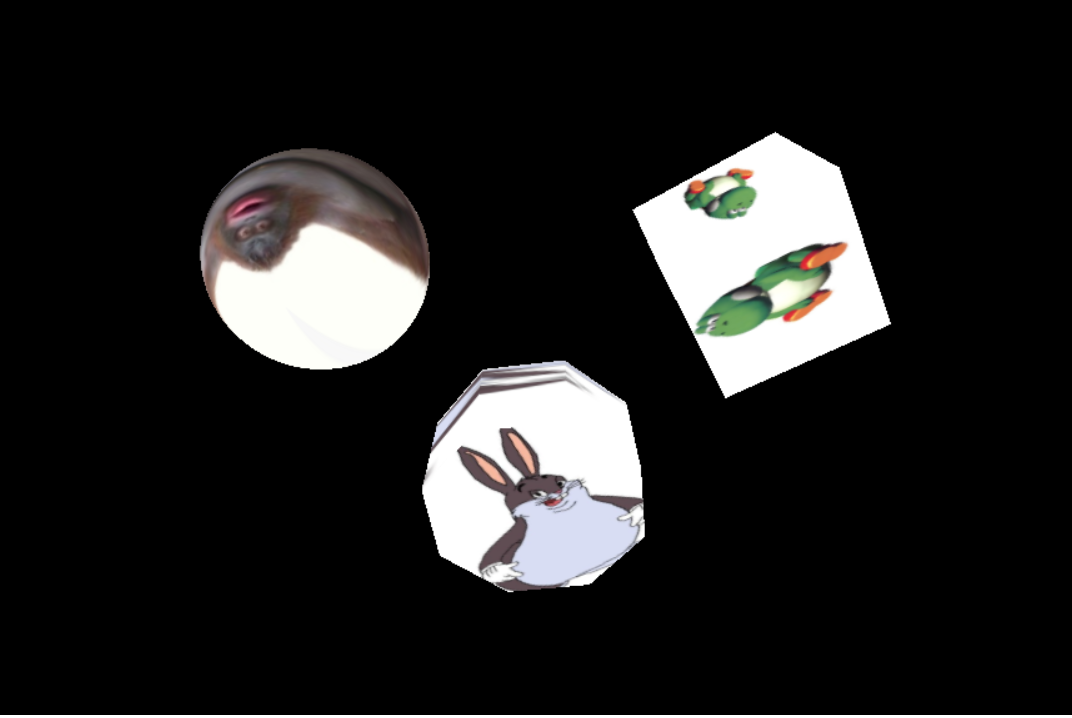
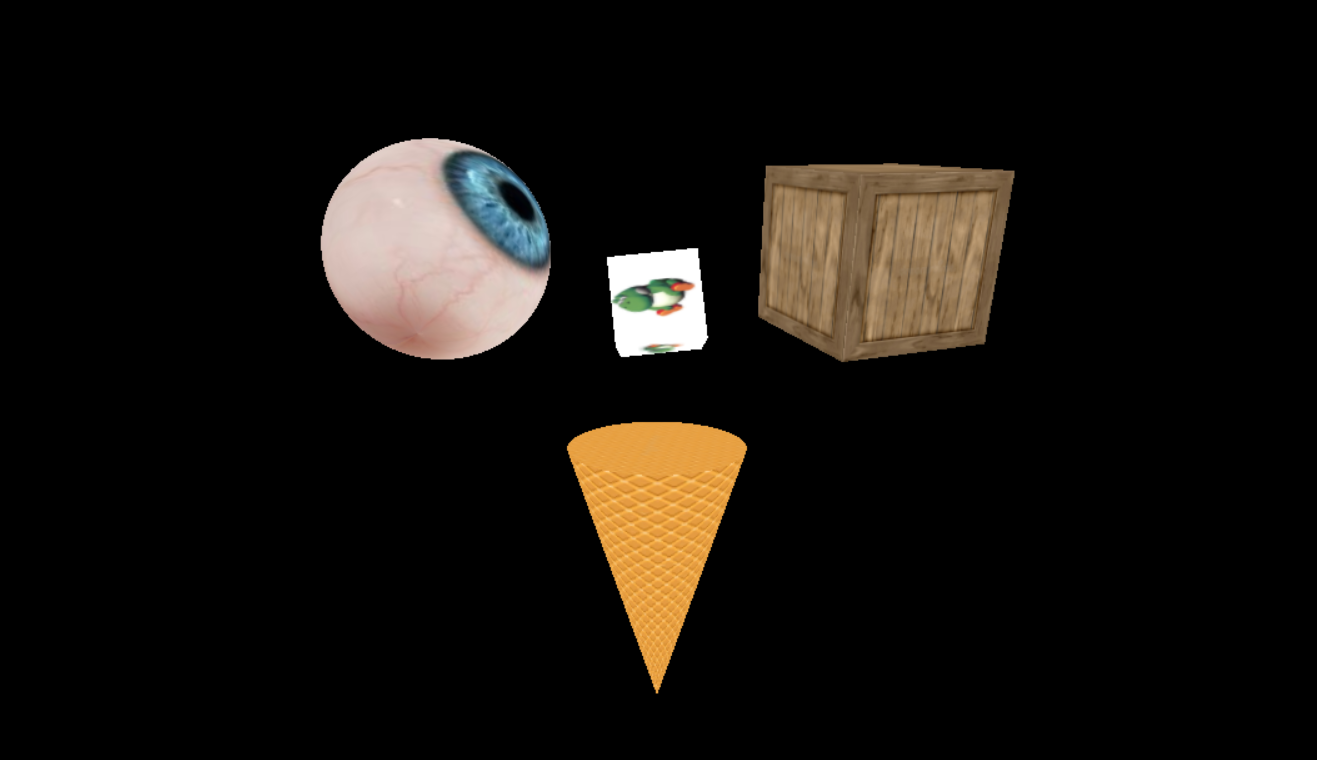
BIG YOSHI AND THE HOLY TRINITY

Changed region(s): [[0.3694, 0.1838, 0.8312, 0.9192], [0.1847, 0.1838, 0.431, 0.5209], [0.0, 0.9805, 1.0, 1.0]]

diff --git a/index.html b/index.html
@@ -2,7 +2,7 @@
 <html>
 	<head>
 		<meta charset="utf-8">
-		<title>CUBE</title>
+		<title> BIG YOSHI AND THE HOLY TRINITY </title>
 		<style>
 			body { margin: 0; }
 		</style>
@@ -18,45 +18,55 @@
 			renderer.setSize( window.innerWidth, window.innerHeight );
 			document.body.appendChild( renderer.domElement );
 
-            const textureYoshi = new THREE.TextureLoader().load('https://i.kym-cdn.com/entries/icons/facebook/000/025/999/Screen_Shot_2018-04-24_at_1.33.44_PM.jpg' );
-            const materialYoshi = new THREE.MeshBasicMaterial( { map: textureYoshi } );
+            const textureCrate = new THREE.TextureLoader().load('https://thumbs.dreamstime.com/b/wood-crate-generated-hires-texture-background-45525618.jpg' );
+            const materialCrate = new THREE.MeshBasicMaterial( { map: textureCrate } );
 
-            const textureMonke = new THREE.TextureLoader().load('https://i1.sndcdn.com/avatars-000704759671-vubbcx-t500x500.jpg' );
-            const materialMonke = new THREE.MeshBasicMaterial( { map: textureMonke } );
+            const textureEyeBall = new THREE.TextureLoader().load('https://staticdelivery.nexusmods.com/mods/264/images/thumbnails/97-0-1471472206.jpg' );
+            const materialEyeBall = new THREE.MeshBasicMaterial( { map: textureEyeBall } );
 
-            const textureChungus = new THREE.TextureLoader().load('https://pbs.twimg.com/profile_images/1189017442032467968/T4HUcDrr_400x400.jpg');
-            const materialChungus = new THREE.MeshBasicMaterial( { map: textureChungus } );
+            const textureIceCream = new THREE.TextureLoader().load('https://thumbs.dreamstime.com/b/seamless-pattern-texture-waffle-ice-cream-cone-cartoon-illustration-web-site-advertising-banner-seamless-pattern-116058546.jpg');
+            const materialIceCream = new THREE.MeshBasicMaterial( { map: textureIceCream } );
+
+            const textureBigYoshi = new THREE.TextureLoader().load('https://i.kym-cdn.com/entries/icons/facebook/000/025/999/Screen_Shot_2018-04-24_at_1.33.44_PM.jpg');
+            const materialBigYoshi = new THREE.MeshBasicMaterial( { map: textureBigYoshi } );
             
 			const cubegm = new THREE.BoxGeometry( 150, 150, 150 );
+            const smallcubegm = new THREE.BoxGeometry( 80, 80, 80 );
             const spheregm = new THREE.SphereGeometry( 100, 100, 100 );
-            const Cylindergm = new THREE.CylinderGeometry( 100, 100, 100 );
+            const Conegm = new THREE.ConeGeometry( 80, 250, 100 );
 
-			const cube = new THREE.Mesh( cubegm, materialYoshi );
-            const sphere = new THREE.Mesh( spheregm, materialMonke );
-            const Cylinder = new THREE.Mesh( Cylindergm, materialChungus );
+			const crate = new THREE.Mesh( cubegm, materialCrate );
+            const bigyoshi = new THREE.Mesh( smallcubegm, materialBigYoshi );
+            const sphere = new THREE.Mesh( spheregm, materialEyeBall );
+            const Cone = new THREE.Mesh( Conegm, materialIceCream );
 
-            cube.position.set( 200, 100, 0 );
+            crate.position.set( 200, 100, 0 );
+            bigyoshi.position.set( 0, 50, 0 );
             sphere.position.set( -200, 100, 0 );
-            Cylinder.position.set( 0, -100, 0)
+            Cone.position.set( 0, -200, 0)
 
             const group = new THREE.Group();
-            group.add( cube );
+            group.add( crate );
+            group.add( bigyoshi );
             group.add( sphere );
-            group.add( Cylinder );
-            
+            group.add( Cone );
+
 			scene.add( group );
 
 			const animate = function () {
 				requestAnimationFrame( animate );
 
-				cube.rotation.x += 0.01;
-                cube.rotation.y += 0.01;
+				crate.rotation.x += 0.01;
+                crate.rotation.y += 0.01;
 
-                sphere.rotation.x += 0.01;
-                sphere.rotation.y += 0.01;
+                bigyoshi.rotation.x -= 0.05;
+                bigyoshi.rotation.y -= 0.05;
 
-                Cylinder.rotation.x += 0.01;
-                Cylinder.rotation.y += 0.01;
+                sphere.rotation.x -= 0.02;
+                sphere.rotation.y -= 0.02;
+
+                Cone.rotation.x += 0.005;
+                Cone.rotation.y += 0.005;
 
 				renderer.render( scene, camera );
 			};

diff --git a/README.md b/README.md
@@ -1,7 +1,7 @@
 # Computação Gráfica - Projeto 3: Threejs
-### Uma obra prima feita por André Rocco e André Tavernaro
+## Uma obra prima feita por André Rocco e André Tavernaro
 
-
+## BIG YOSHI AND THE HOLY TRINITY
 ![resultado](threejsVIEW.png)
 
 
